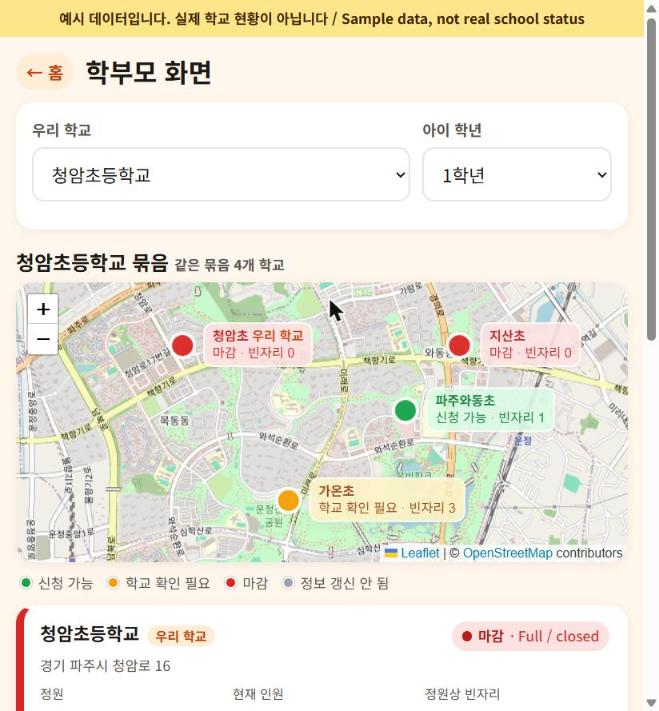
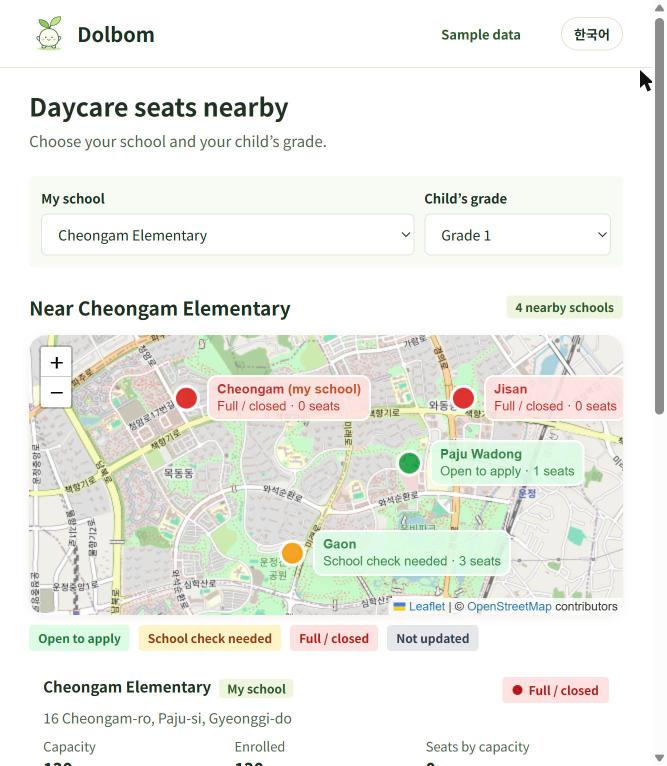
docs: retake README screenshots on the English UI; fix test count and alt text
- app/docs/screenshots: home (EN, 한국어 toggle), parent map with four
  marker states, Gaon daycare screen with one pending inquiry
- app/README.md: alt text, 5 files / 61 tests, 'Reset sample data' label

diff --git a/README.md b/README.md
@@ -6,7 +6,7 @@
 
 | Parent (phone) | Teacher (PC / tablet) | Home |
 |---|---|---|
-| ![Parent screen: map of the bundle with coloured, labelled markers and school cards](docs/screenshots/parent-map.jpg) | ![Teacher screen: four stat cards, headcount −/+, 3-way accepting status, application list](docs/screenshots/teacher.jpg) | ![Home screen with parent and teacher entry points and the data-reset button](docs/screenshots/home.jpg) |
+| ![Parent screen: map of the bundle with coloured, labelled markers and school cards](docs/screenshots/parent-map.jpg) | ![Daycare screen: four stat cards, headcount −/+, 3-way accepting status, one pending inquiry](docs/screenshots/teacher.jpg) | ![Home screen (English default, 한국어 toggle) with parent and daycare entry points](docs/screenshots/home.jpg) |
 
 ## The problem
 
@@ -130,7 +130,7 @@ Events: `schools:changed`, `applications:changed`, `db:reset`.
 
 - **Public:** school names, addresses and the number of afternoon-care classrooms come from the Gyeonggi Provincial Office of Education, *2026 온동네 돌봄·교육 자원지도* (Paju edition). Capacity is assumed as classrooms × 20.
 - **Invented for the demo:** current headcounts, accepting statuses, every application, every name (e.g. 김하늘) and phone number (010-0000-0000). No real child or guardian data exists anywhere in this repository.
-- **Coordinates:** OpenStreetMap Nominatim. 파주와동초등학교 is listed in OSM as "와동초등학교" (37.726425, 126.7570207), about 150 m from its road address — the one coordinate still to be confirmed by a human; edit `shared/seed.ts` and press "데이터 초기화" to change it.
+- **Coordinates:** OpenStreetMap Nominatim. 파주와동초등학교 is listed in OSM as "와동초등학교" (37.726425, 126.7570207), about 150 m from its road address — the one coordinate still to be confirmed by a human; edit `shared/seed.ts` and press "Reset sample data" to change it.
 - Map tiles: © OpenStreetMap contributors. No API keys are used.
 
 Two bundles are seeded: **운정 가까운 학교 묶음** (청암초 full, 가온초 check, 파주와동초 open, 지산초 full) and **문산 묶음** (문산초 open). A 운정 parent never sees 문산초 — that is the bundle filter at work.
@@ -148,13 +148,14 @@ This is a hackathon demo. Deliberately missing:
 ## Tests
 
 ```
-Test Files  4 passed (4)
-     Tests  57 passed (57)
+Test Files  5 passed (5)
+     Tests  61 passed (61)
 ```
 
 - `shared/rules.test.ts` — marker priority, bundle filter, approve/reject, duplicate and out-of-bundle refusal, immutability
 - `shared/seed.test.ts` — capacity = classrooms × 20, timestamps, fake-only contact data
 - `server/app.test.ts` — every route, error codes, broadcast events
+- `server/store.test.ts` — keeps a saved db.json, re-seeds one written by an older seed
 - `web/src/lib/i18n.test.ts` — English default, EN/KO key parity, daycare wording, error-code mapping
 
 Map data © OpenStreetMap contributors (ODbL).
